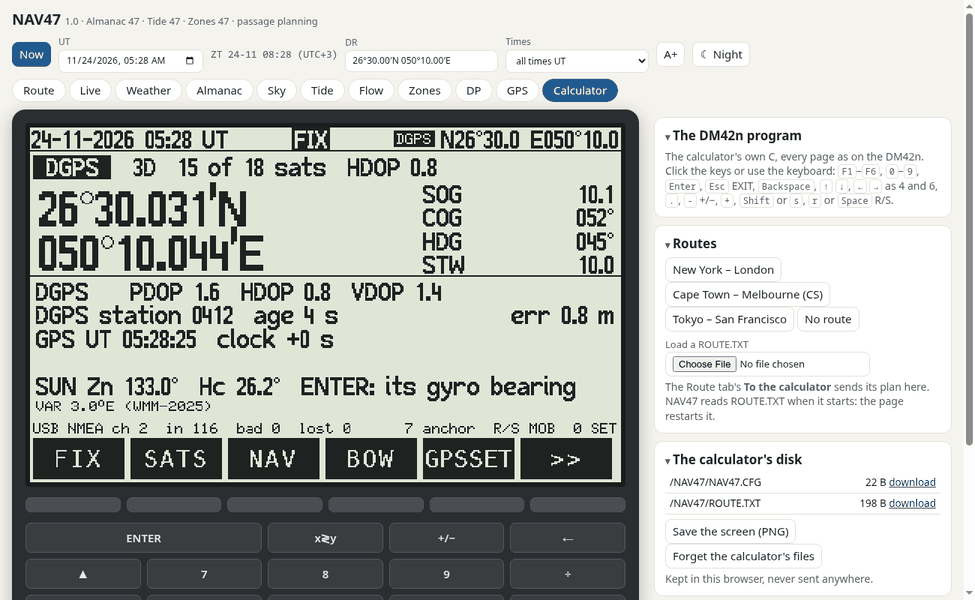
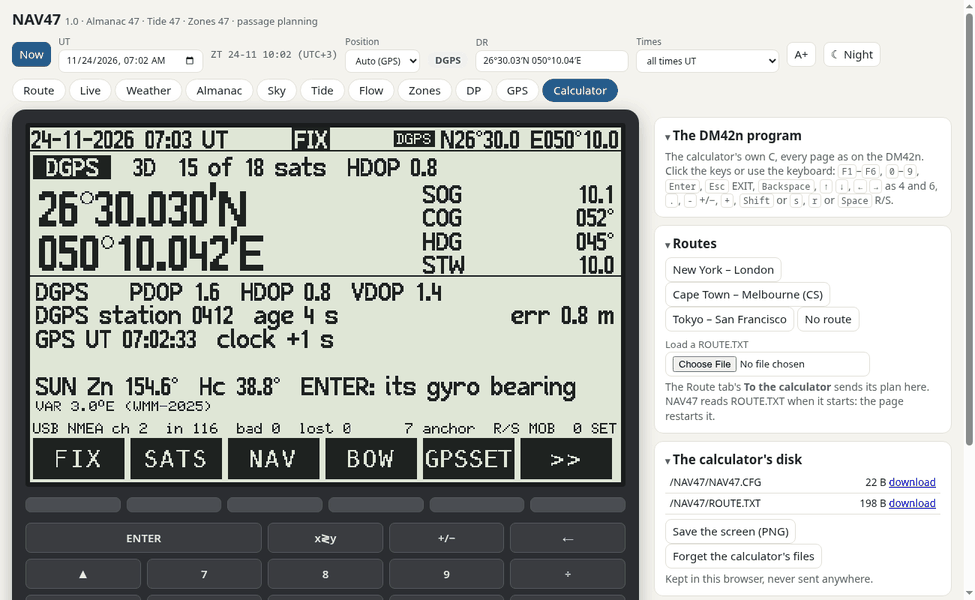
Web: Position Auto (GPS) / Manual in the top bar, as the calculator's; the DR follows the GPS with a source tag
Auto (the default, as POSITION AUTO and SET FOLLOWS): with a GPS running the top bar's DR is the GPS's position every
second, a tag before it (GPS, DGPS, RTK... green; DR amber: the fix lost, the Live tab's dead reckoning; NO FIX); the
tab shown (Almanac, tides, zones...) computed again every 10 s. Manual (MAN while a GPS runs), or a DR typed: yours.
The GPS tab's 'DR follows the GPS' is the same setting, kept in the browser. APP.setPos for gps.js.
Checked: headless, the demo on the Almanac tab: DGPS tag, the DR and the Almanac's DR the GPS's; Manual holds it;
typing a DR turns Auto off; the live tab, legs, take-over and review tests again. Manual (03-web) and pictures.

diff --git a/web/gps.js b/web/gps.js
@@ -9,7 +9,7 @@ const GPS = (() => {
   const D2R = Math.PI / 180, SYS = ["GPS", "GLO", "GAL", "BDS", "QZS", "SBAS", "NAVIC"];
   const KEEP = /^(RMC|GGA|GNS|GSA|VTG|ZDA|GST|HDT|THS|HDG|VHW|GSV)$/;
   let built = false, src = null, stopSrc = null, t0 = performance.now(), last = [], st = null, sats = [];
-  let calcPort = null, calcWriter = null, queue = new Map(), gsvLast = {}, gsvOpen = {}, toCalcTab = true, follow = false, followT = 0;
+  let calcPort = null, calcWriter = null, queue = new Map(), gsvLast = {}, gsvOpen = {}, toCalcTab = true, follow = localStorage.getItem("nav47web:gpsfollow") !== "0", followT = 0;   /* Position AUTO (GPS), as the calculator: the default */
   let cur = { e: 0, n: 0, ok: false };
   const ms = () => performance.now() - t0;
 
@@ -233,12 +233,29 @@ const GPS = (() => {
     $("gpsraw").textContent = last.join("\n");
     followStep(g);
   }
+  /* Position AUTO (the calculator's POSITION AUTO, SET FOLLOWS): the top bar's DR the GPS's every second, its tag (GPS,
+     DGPS, RTK... green; DR amber: the fix lost, the Live tab's dead reckoning), the tab shown computed again every 10 s */
   function followStep(g) {
-    const live = g && g.fixAge >= 0 && g.fixAge < 10;
-    if (follow && live && performance.now() - followT > 10000) {           /* the DR follows: every 10 s */
-      followT = performance.now();
-      const dr = $("dr"); dr.value = F().pos(g.lat, g.lon); dr.dispatchEvent(new Event("change"));
-    }
+    const tag = $("drtag"); if (!tag) return;
+    if (!src) { tag.hidden = true; return; }
+    const fresh = g && g.fixAge >= 0 && g.fixAge < 10, L = typeof LIVE !== "undefined" ? LIVE.state() : null;
+    let p = null, name = "";
+    if (fresh) { p = [g.lat, g.lon]; name = Module.UTF8ToString(Module._api_qual_name(g.q)); }
+    else if (L && L.pos && L.pos.src === "DR") { p = [L.pos.lat, L.pos.lon]; name = "DR"; }
+    tag.hidden = false;
+    tag.textContent = !follow ? "MAN" : p ? name : "NO FIX";
+    tag.className = "chip " + (!follow ? "" : !p || name === "DR" ? "warn" : "ok");
+    tag.title = !follow ? "the GPS runs; the position is yours (Position: Manual)" : p ? "the position is the " + name + "'s" : "no fix yet";
+    if (!follow || !p) return;
+    const now = performance.now(), redraw = now - followT > 10000;
+    if (redraw) followT = now;
+    APP.setPos(p, redraw);
+  }
+  function setFollow(on) {
+    follow = !!on; followT = 0; localStorage.setItem("nav47web:gpsfollow", follow ? "1" : "0");
+    if ($("gpsfollow")) $("gpsfollow").checked = follow;
+    if ($("posmode")) $("posmode").value = follow ? "auto" : "man";
+    followStep(st);
   }
 
   function build() {
@@ -256,8 +273,9 @@ const GPS = (() => {
             <label>speed <select id="gpsspeed"><option>1</option><option>2</option><option>5</option><option>10</option></select></label></div>
           <div class="meta" id="gpsstat">no source</div>
           <div id="gpsfix"></div>
-          <label style="display:block;margin-top:8px"><input type="checkbox" id="gpsfollow"> The DR follows the GPS (every 10 s: the
-            almanac, tides, zones and the route's DR)</label>
+          <label style="display:block;margin-top:8px"><input type="checkbox" id="gpsfollow" ${follow ? "checked" : ""}> The DR follows the GPS: the
+            top bar's <b>Position</b> AUTO (GPS), as the calculator's; the almanac, tides, zones and the route's DR with it (a lost fix:
+            the dead reckoning). MANUAL, or a DR typed: yours</label>
         </div>
         <div class="card"><h2>To the calculator</h2>
           <label><input type="checkbox" id="gpscalctab" checked> To the Calculator tab's program (its FIX SATS NAV BOW pages;
@@ -280,7 +298,7 @@ const GPS = (() => {
     $("gpsdemo").onclick = demo;
     $("gpsstop").onclick = stop;
     $("gpslog").onchange = e => { const f = e.target.files[0]; if (f) replay(f); };
-    $("gpsfollow").onchange = e => { follow = e.target.checked; followT = 0; };
+    $("gpsfollow").onchange = e => setFollow(e.target.checked);
     $("gpscalctab").onchange = e => { toCalcTab = e.target.checked; };
     $("gpscalc").onclick = connectCalc;
     $("gpsopen").onclick = () => { toCalcTab = true; $("gpscalctab").checked = true; APP.showTab("calc"); CALC.keys(["EXIT", "F6", "F6", "F6", "F1"]); };
@@ -289,11 +307,11 @@ const GPS = (() => {
   setInterval(() => {
     if (!window.Module || !Module.ready || typeof APP === "undefined" || !window.NAV47_UP) return;
     if (S().tab === "gps") { show(); }
-    else if (src || follow) { st = read(); followStep(st); }
+    else { st = read(); followStep(st); }
     if (typeof LIVE !== "undefined" && st) LIVE.tick(st, sats);
   }, 1000);
   /* #gpsdemo: the demo at once (tests, pictures), when the page is up */
   if (/gpsdemo/.test(location.hash)) { const w = setInterval(() => { if (window.NAV47_UP) { clearInterval(w); demo(); } }, 200); }
 
-  return { show, line, demo, stop, sky, state: () => st, sats: () => sats, running: () => !!src };
+  return { show, line, demo, stop, sky, setFollow, auto: () => follow, following: () => follow && !!src, state: () => st, sats: () => sats, running: () => !!src };
 })();

diff --git a/web/app.js b/web/app.js
@@ -1711,6 +1711,14 @@ function showTab(t) {
   else if (t === "gps") GPS.show();
   else if (typeof TABS2 !== "undefined" && TABS2[t]) TABS2[t]();
 }
+let hdrShow = () => {};
+/* the position from the GPS (gps.js, every second): the field and the zone time now, the tab computed again when redraw */
+function setPos(p, redraw) {
+  S.pos = [p[0], p[1]];
+  const dr = $("dr"); if (dr && document.activeElement !== dr) dr.value = FMT.pos(p[0], p[1]);
+  hdrShow();
+  if (redraw) { save(); if (S.tab !== "calc" && S.tab !== "live") rerender(); }
+}
 function header() {
   const ut = $("ut"), dr = $("dr"), now = $("now"), times = $("times");
   times.innerHTML = '<option value="ut">all times UT</option><option value="zt">all times ZT (the DR\'s zone)</option>';
@@ -1722,7 +1730,13 @@ function header() {
   dr.value = FMT.pos(S.pos[0], S.pos[1]); times.value = S.times; show();
   now.onclick = () => { S.live = !S.live; S.jd = jdOf(Date.now()); show(); rerender(); };
   ut.onchange = () => { const t = Date.parse(ut.value + "Z"); if (isFinite(t)) { S.live = false; S.jd = jdOf(t); } show(); rerender(); };
-  dr.onchange = () => { const p = parsePos(dr.value); if (p) S.pos = p; dr.value = FMT.pos(S.pos[0], S.pos[1]); save(); show(); rerender(); };
+  dr.onchange = () => {                                           /* typed: yours (Position: Manual while a GPS runs) */
+    if (typeof GPS !== "undefined" && GPS.following()) GPS.setFollow(false);
+    const p = parsePos(dr.value); if (p) S.pos = p; dr.value = FMT.pos(S.pos[0], S.pos[1]); save(); show(); rerender(); };
+  const pm = $("posmode");                                         /* Position: Auto (GPS) or Manual, as the calculator */
+  pm.value = typeof GPS !== "undefined" && !GPS.auto() ? "man" : "auto";
+  pm.onchange = () => { if (typeof GPS !== "undefined") GPS.setFollow(pm.value === "auto"); };
+  hdrShow = show;
   times.onchange = () => { S.times = times.value; save(); rerender(); };
   setInterval(() => { if (S.live) { show(); if (S.tab !== "route" && S.tab !== "calc") rerender(); } }, 5000);
 }
@@ -1793,6 +1807,7 @@ const APP = {
     if (zm) { S.view.k *= +zm[1]; clampView(); draw(); }
   },
   route: () => ROUTE.plan.rows,
+  setPos,
   redraw: () => { showTab(S.tab); if (S.tab === "route") draw(); },                                 /* the colours changed (night): the tab drawn again */
   download, fmt: FMT, nav: NAV, state: S, parsePos, tfiles: TFILES, streams: STREAMS, loadCoast, arrowPath, rateCol, showTab,
 };

diff --git a/web/index.html b/web/index.html
@@ -102,6 +102,8 @@
     <button id="now" class="on" title="follow the clock">Now</button>
     <label>UT <input type="datetime-local" id="ut" step="60"></label>
     <span id="ztclock" class="meta mono" title="the zone time of the DR (its longitude / 15)"></span>
+    <label>Position <select id="posmode" title="Auto: the GPS's position while one runs (Manual meanwhile without one); Manual: yours"><option value="auto">Auto (GPS)</option><option value="man">Manual</option></select></label>
+    <span id="drtag" class="chip" hidden style="align-self:flex-end;margin-bottom:6px;font-weight:700"></span>
     <label>DR <input class="pos" id="dr" placeholder="27 12.0N 049 42.0E"></label>
     <label>Times <select id="times"><option value="ut">UT</option><option value="lt">LT</option></select></label>
     <button id="bigtext" title="larger text, for the bridge">A+</button>

diff --git a/docs/manual/03-web.md b/docs/manual/03-web.md
@@ -12,8 +12,12 @@ tab when you switch it on.
 - [Almanac, Sky, Tide, Flow, Zones, Weather, DP](#the-other-tabs)
 - [Calculator](#calculator)
 
-The top bar, on every tab: **Now** (the clock) or a fixed UT; the **DR**, your position for every tab; the times in
-**UT** or **ZT** (the DR's zone); **A+** a larger text, and **☾ Night**: red on black, the charts too, to keep the eyes
+The top bar, on every tab: **Now** (the clock) or a fixed UT; **Position**: **Auto (GPS)** or **Manual**, as the
+calculator's POSITION AUTO and SET FOLLOWS; the **DR**, the position every tab computes with. With Auto and a GPS
+running (the GPS tab: a GPS, a log, the Demo), the DR is the GPS's position, every second, a tag before it saying
+whence: **GPS**, **DGPS**, **RTK**… green, **DR** amber (the fix lost: the dead reckoning), **NO FIX**; the tab shown
+(the Almanac, the tides, the zones…) is computed again every 10 s. **Manual** (**MAN** while a GPS runs), or a DR
+typed: the position is yours. No GPS: no tag, the DR is yours. The times in **UT** or **ZT** (the DR's zone); **A+** a larger text, and **☾ Night**: red on black, the charts too, to keep the eyes
 dark-adapted on the bridge (both kept in this browser).
 
 **Cards fold** at their title (▾ / ▸): the Route tab's long column shortens to the cards in use, and the page
